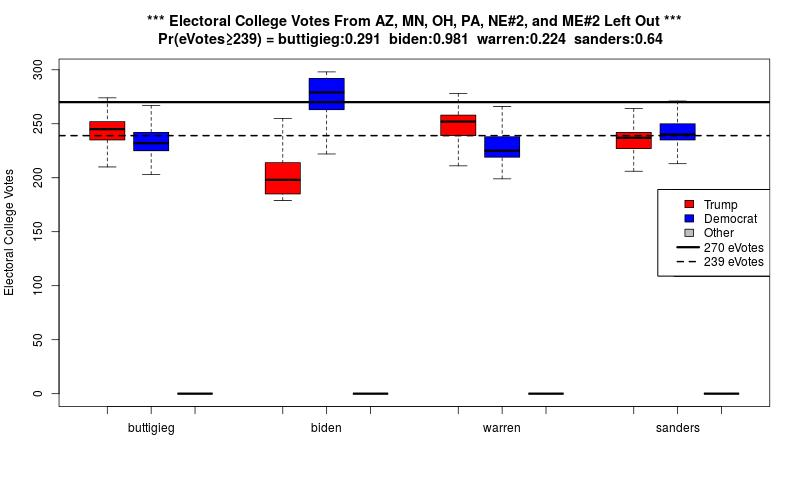
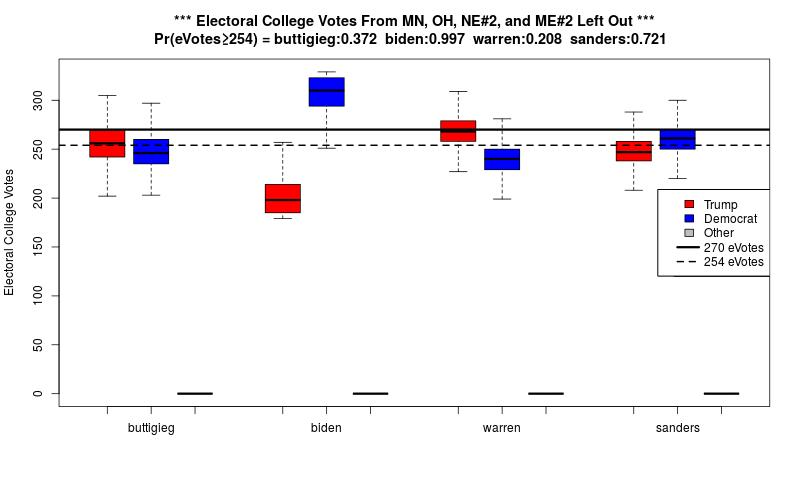
some updated polls, working on Florida

diff --git a/README.md b/README.md
@@ -68,15 +68,32 @@ against Trump. Summing these distributions over the relevant states gives a
 prediction for the number of electoral college votes each candidate will get 
 from those states.  
 
-In this simulation I have limited the prediction to Iowa, Florida, Michigan, 
-Nevada, New Hampshire, Virginia, Wisconsin, and North Carolina. Although I 
-would like to add Arizona, Minnesota, Ohio, and Pennsylvania, pending decent polls 
-from those states. I have tried to limit poll inclusion to polls present 
-on FiveThirtyEight appearing within the last two-three months and that achieve 
-at least a B+ pollster rating from FiveThirtyEight. If you can think of any 
-other states that deserve to be considered, I welcome you to provide me a 
-convincing argument as to why. If I am convinced and I can find the data I 
-will include it.  
+# Data Selection & Imputation
+
+In this simulation I have limited randomized prediction to Iowa, Florida, 
+Michigan, Nevada, New Hampshire, Virginia, Wisconsin, North Carolina, Arizona, 
+and Pennsylvania. Although I would like to add Minnesota and Ohio pending 
+decent polls from those states. I have tried to limit poll inclusion to polls 
+present on FiveThirtyEight appearing within the last two-three months and that 
+achieve at least a B+ pollster rating from FiveThirtyEight. When more than one 
+recent quality poll exists in a state, I aggregate those polls by adding their 
+sample sizes and I compute a weighted averaging of their proportions based on 
+their relative sample sizes.  
+
+Currently Pennsylvania and Arizona do not have recent, and high quality, polls. 
+Furthermore, the polls that do exists for these states exclude Buttigieg form 
+polling. Until new polls exist in these states I am forced to loosen the standard
+for poll inclusion in the following ways. For these states I extend poll 
+inclusion to polls that are up to four months old and lower the pollster standard 
+to at least a B- rating. I fill in Buttigeig's poll numbers, in missing cases, 
+by filling in his average among all other swing states, with a sample size of one. 
+This has the effect of increasing uncertanty about Buttigieg without swaying his 
+mean performance. 
+<!--
+I also extend this lowered standard to Florida since it's behavior
+is volitile in the hopes that this will include more polls to smooth out its wild 
+behavior from poll to poll.
+-->
 
 # A Measure of Success
 
